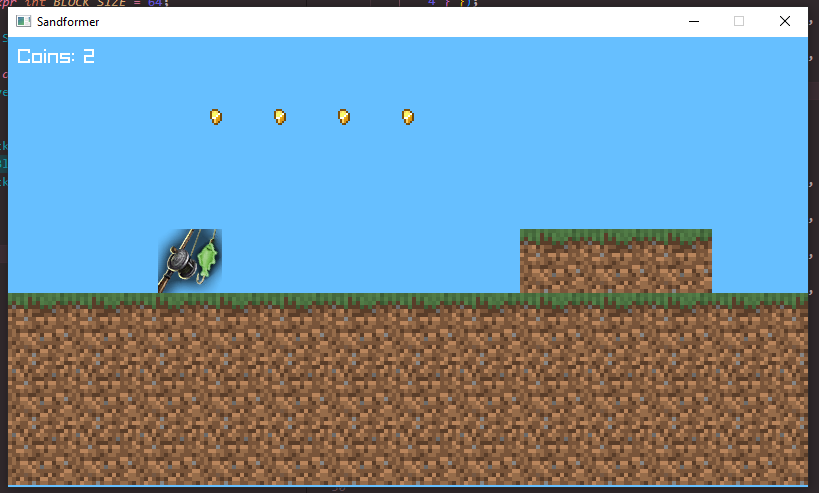
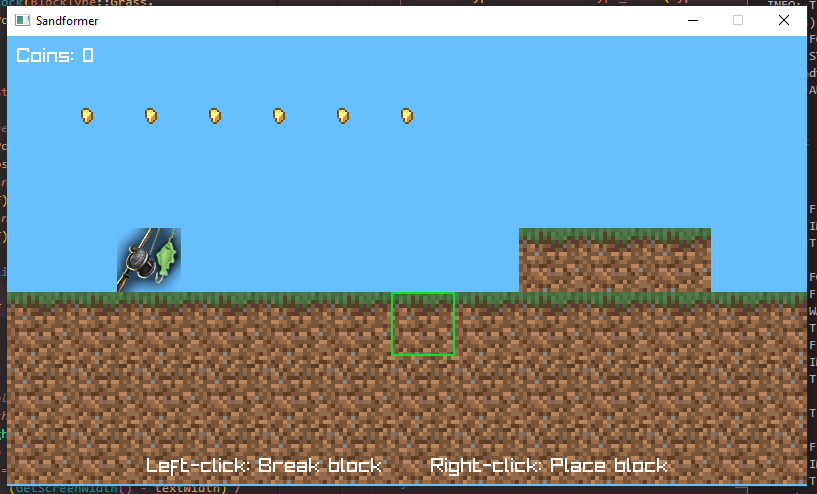
BlockWorldSystem: add outline for selected block pos and controls hint

diff --git a/src/ecs/BlockWorldSystem.cpp b/src/ecs/BlockWorldSystem.cpp
@@ -37,6 +37,27 @@ namespace ecs
         }
     }
 
+    void BlockWorldSystem::Render()
+    {
+        // Draw outline around the selected grid position
+        Vector2 mousePos = GetMousePosition();
+        Vector2 gridPos = {
+            (float)((int)(mousePos.x / BLOCK_SIZE) * BLOCK_SIZE),
+            (float)((int)(mousePos.y / BLOCK_SIZE) * BLOCK_SIZE),
+        };
+        DrawRectangleLinesEx(
+            Rectangle{ gridPos.x, gridPos.y, BLOCK_SIZE, BLOCK_SIZE },
+            2.0f,
+            GREEN
+        );
+
+        // Draw controls hint
+        static const char* hint = "Left-click: Break block      Right-click: Place block";
+        int fontSize = 20;
+        int textWidth = MeasureText(hint, fontSize);
+        DrawText(hint, (GetScreenWidth() - textWidth) / 2, GetScreenHeight() - 30, fontSize, WHITE);
+    }
+
     void BlockWorldSystem::BreakBlockAtPos(Vector2 pos)
     {
         for (auto [entity, transform, bbox, block] : world->GetEntities<TransformComponent, BoundingBoxComponent, BlockComponent>())

diff --git a/src/ecs/BlockWorldSystem.hpp b/src/ecs/BlockWorldSystem.hpp
@@ -14,6 +14,7 @@ namespace ecs {
         void OnStart() override;
 
         void Update() override;
+        void Render() override;
 
     private:
         void BreakBlockAtPos(Vector2 pos);
